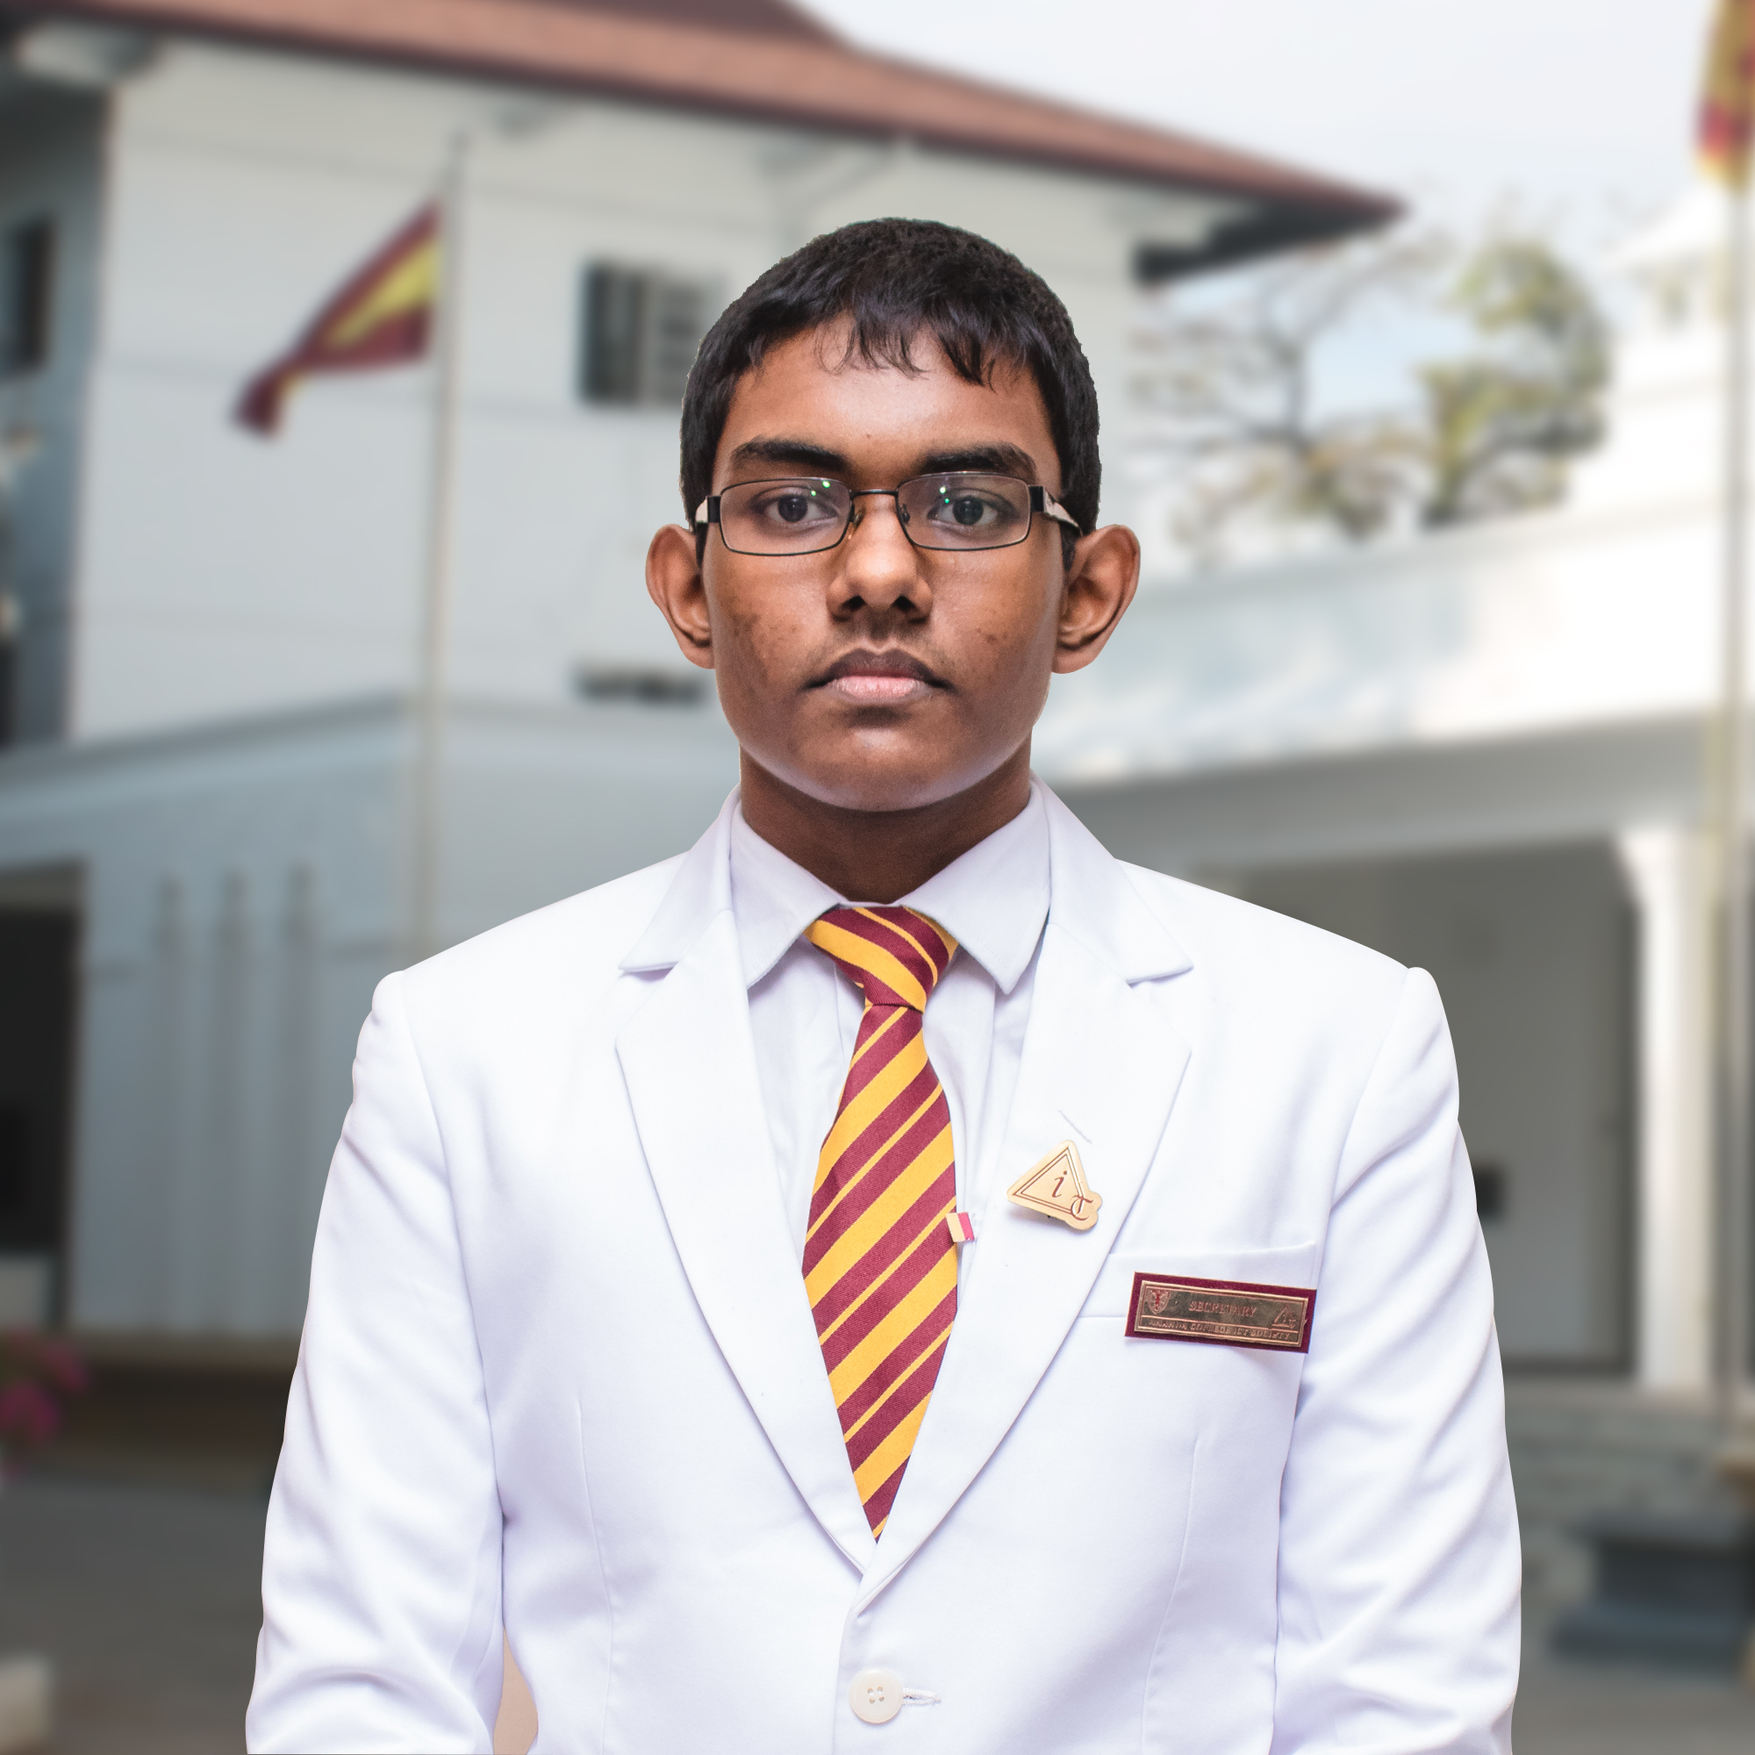
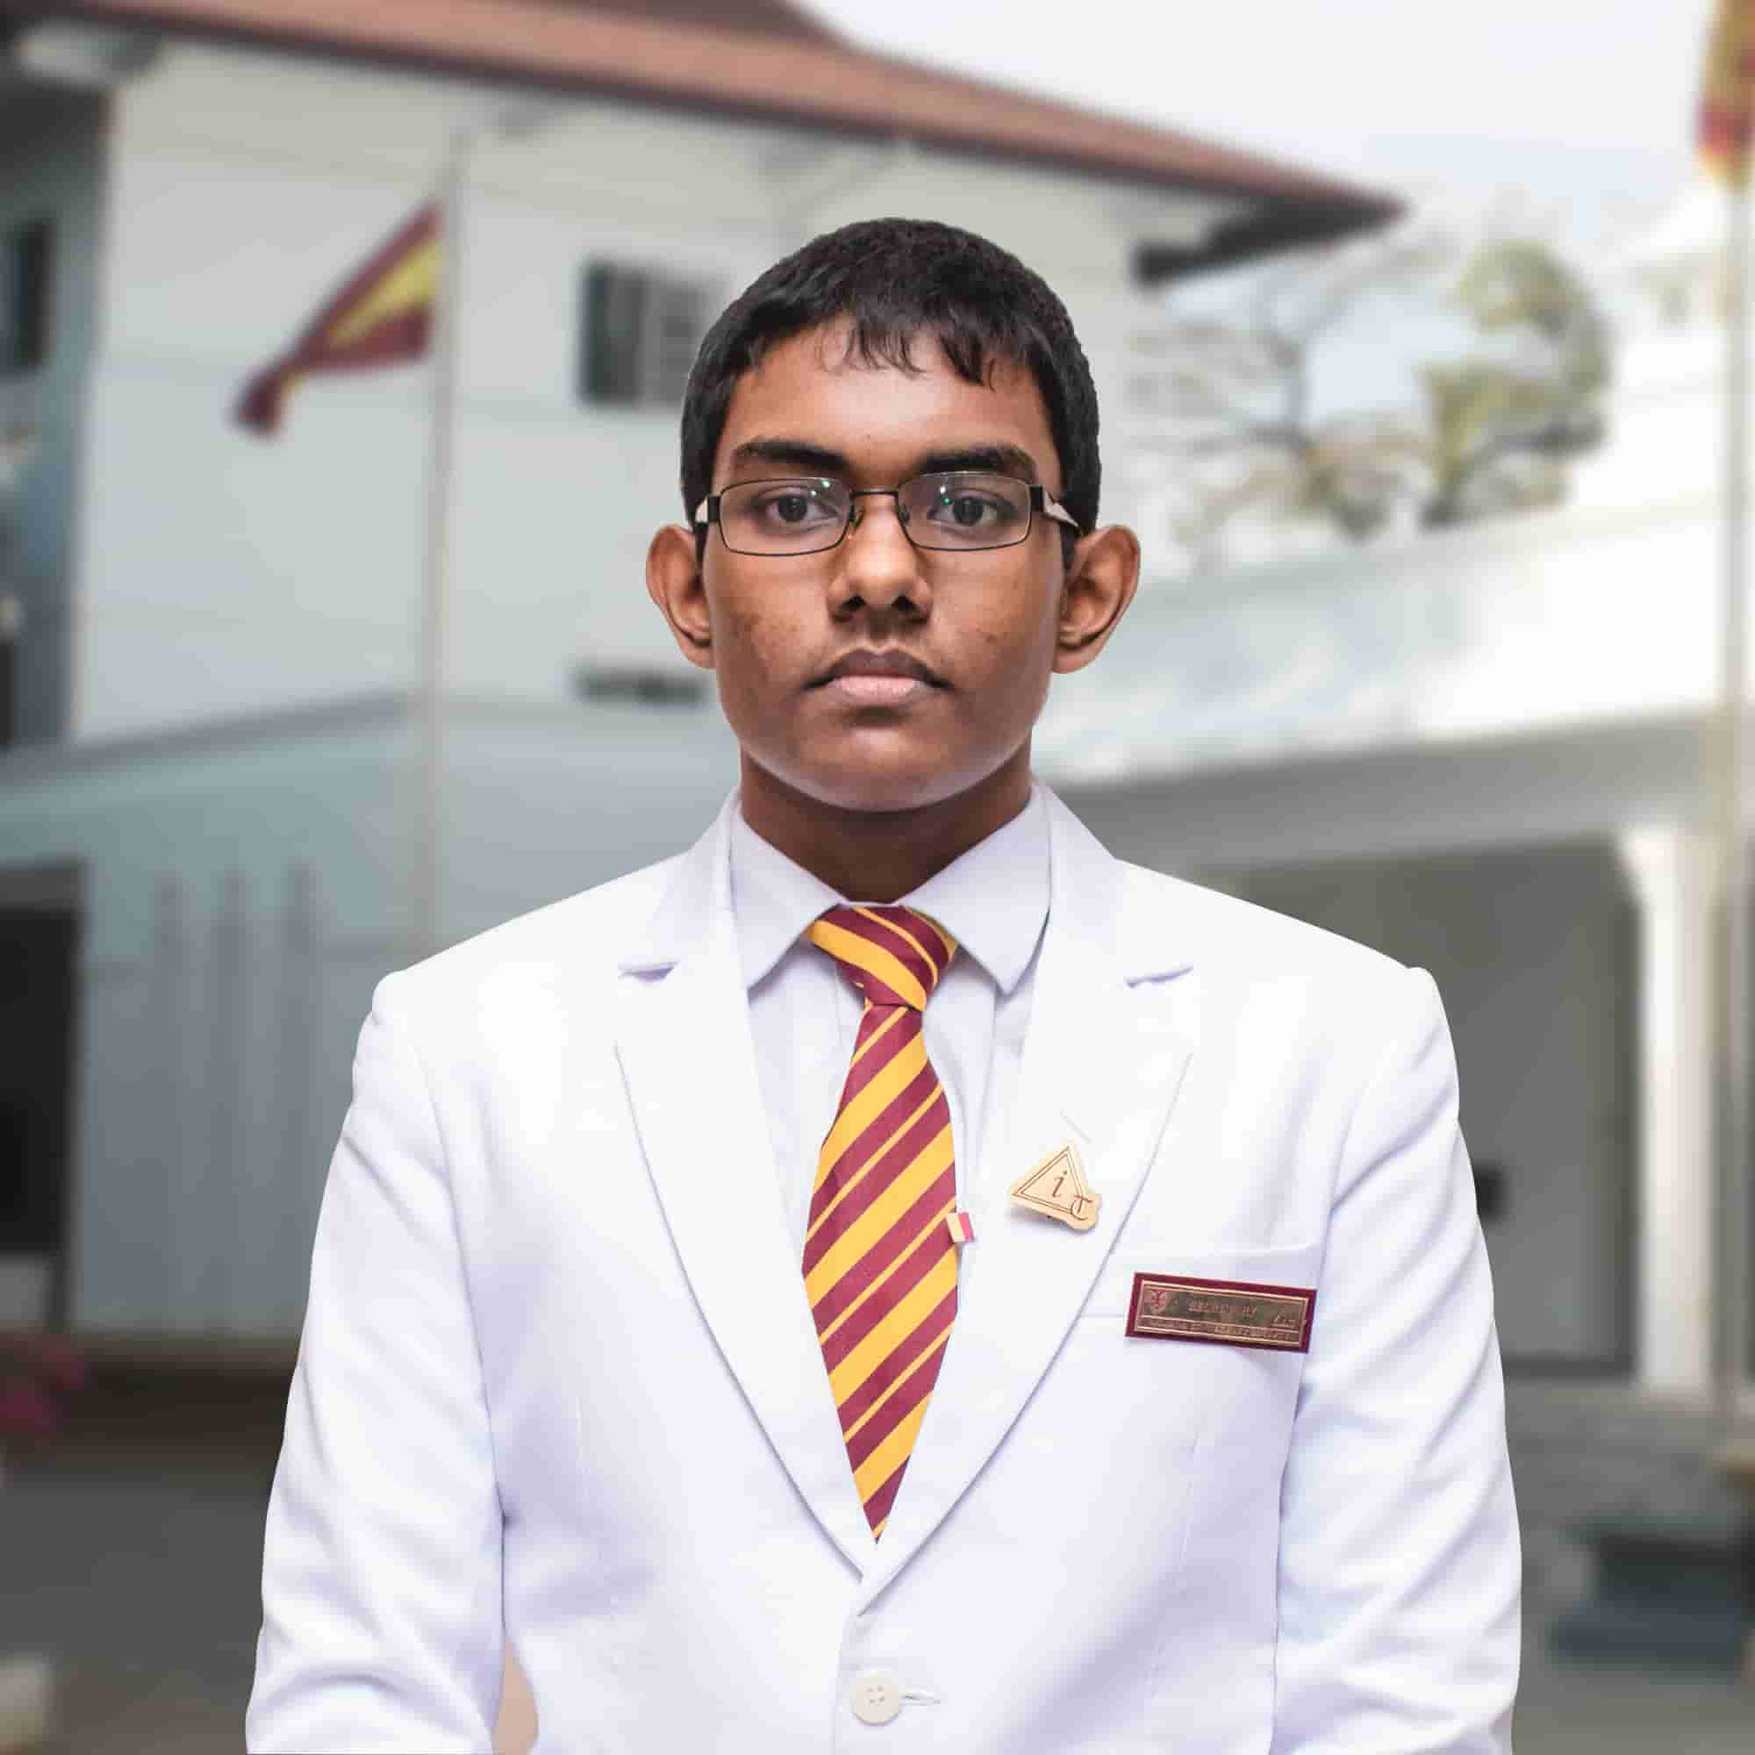
decreased image quality, few errors fixed

diff --git a/index.html b/index.html
@@ -66,7 +66,7 @@
     </div>
 
     <div class="container">
-        <nav class="navbar wow fadeInUp sticky-top navbar-expand-lg navbar-dark bg-dark-ash" data-wow-duration="1s" data-wow-delay="0.5s">
+        <nav class="navbar wow fadeInUp sticky-top navbar-expand-lg navbar-dark bg-dark-ash" data-wow-duration="1s" data-wow-delay="0.2s">
             <div class="container-fluid">
                 <a class="navbar-brand" href="#">
                     <img src="./images/bw-logo-small.png" class="logo-small" alt="">
@@ -81,19 +81,19 @@
                             <a class="nav-link active" aria-current="page" href="#">Home</a>
                         </li> -->
                         <li class="nav-item">
-                            <a class="nav-link" href="#">Projects</a>
+                            <a class="nav-link" href="#projects">Projects</a>
                         </li>
                         <li class="nav-item">
-                            <a class="nav-link" href="#">About</a>
+                            <a class="nav-link" href="#about">About</a>
                         </li>
                         <li class="nav-item">
-                            <a class="nav-link" href="#">Achievements</a>
+                            <a class="nav-link" href="#achievements">Achievements</a>
                         </li>
                         <li class="nav-item">
-                            <a class="nav-link" href="#">Board</a>
+                            <a class="nav-link" href="#board">Board</a>
                         </li>
                         <li class="nav-item">
-                            <a class="nav-link" href="#">Contact</a>
+                            <a class="nav-link" href="#contact">Contact</a>
                         </li>
                         <!-- <li class="nav-item dropdown">
                             <a class="nav-link dropdown-toggle" href="#" id="navbarDropdownMenuLink" role="button"
@@ -113,16 +113,16 @@
 
         <div class="parallax-img"></div>
 
-        <div class="section section-a">
-            <h2 class="section-title wow fadeInUp" data-wow-duration="1s" data-wow-delay="0.5s">Projects</h2>
+        <div class="section section-a" id="projects">
+            <h2 class="section-title wow fadeInUp" data-wow-duration="1s" data-wow-delay="0.4s">Projects</h2>
             <div class="row row-cols-1 row-cols-lg-4 g-4">
-                <div class="col wow fadeInUp" data-wow-duration="1s" data-wow-delay="1s">
+                <div class="col wow fadeInUp" data-wow-duration="1s" data-wow-delay="0.2s">
 
                     <div class="card-flip d-none d-lg-block">
                         <div class="flip">
                             <div class="front">
                                 <div class="card bg-dark-ash text-white h-100">
-                                    <img src="./images/projects/pulz.jpg" class="card-img-top" alt="...">
+                                    <img src="./images/projects/pulz.png" class="card-img-top" alt="...">
                                     <h5 class="card-main-topic">PULZ</h5>
                                     <!-- <div class="card-body">
                             <h5 class="card-title">PULZ</h5>
@@ -152,7 +152,7 @@
                     </div>
 
                     <div class="card bg-dark-ash text-white h-100 d-lg-none d-xl-none">
-                        <img src="./images/projects/pulz.jpg" class="card-img-top" alt="...">
+                        <img src="./images/projects/pulz.png" class="card-img-top" alt="...">
                         <div class="card-body">
                             <h5 class="card-title">PULZ</h5>
                             <p class="card-text">This is a wider card with supporting text below as a natural
@@ -164,7 +164,7 @@
                     </div>
 
                 </div>
-                <div class="col wow fadeInUp" data-wow-duration="1s" data-wow-delay="1.2s">
+                <div class="col wow fadeInUp" data-wow-duration="1s" data-wow-delay="0.4s">
 
                     <div class="card-flip d-none d-lg-block">
                         <div class="flip">
@@ -212,7 +212,7 @@
                     </div>
 
                 </div>
-                <div class="col wow fadeInUp" data-wow-duration="1s" data-wow-delay="1.4s">
+                <div class="col wow fadeInUp" data-wow-duration="1s" data-wow-delay="0.6s">
 
                     <div class="card-flip d-none d-lg-block">
                         <div class="flip">
@@ -260,13 +260,13 @@
                     </div>
 
                 </div>
-                <div class="col wow fadeInUp" data-wow-duration="1s" data-wow-delay="1.6s">
+                <div class="col wow fadeInUp" data-wow-duration="1s" data-wow-delay="0.8s">
 
                     <div class="card-flip d-none d-lg-block">
                         <div class="flip">
                             <div class="front">
                                 <div class="card bg-dark-ash text-white h-100">
-                                    <img src="./images/projects/live stream.jpg" class="card-img-top" alt="...">
+                                    <img src="./images/projects/live stream.png" class="card-img-top" alt="...">
                                     <h5 class="card-main-topic">Live Streaming</h5>
 
                                     <!-- <div class="card-body">
@@ -297,7 +297,7 @@
                     </div>
 
                     <div class="card bg-dark-ash text-white h-100 d-lg-none d-xl-none">
-                        <img src="./images/projects/live stream.jpg" class="card-img-top" alt="...">
+                        <img src="./images/projects/live stream.png" class="card-img-top" alt="...">
                         <div class="card-body">
                             <h5 class="card-title">Live Streaming</h5>
                             <p class="card-text">This is a wider card with supporting text below as a natural
@@ -312,7 +312,7 @@
             </div>
         </div>
 
-        <div class="parallax-img2">
+        <div class="parallax-img2" id="about">
             <div class="section section-b wow fadeInUp" data-wow-duration="1s" data-wow-delay="0.5s">
                 <h2 class="section-title">About</h2>
                 <blockquote class="blockquote">
@@ -327,10 +327,10 @@
             </div>
         </div>
 
-        <div class="section section-c">
+        <div class="section section-c" id="achievements">
             <h2 class="section-title wow fadeInUp" data-wow-duration="1s" data-wow-delay="0.5s">Achievements</h2>
             <div class="row row-cols-1 row-cols-md-3 row-cols-lg-4 g-4">
-                <div class="col wow fadeInUp" data-wow-duration="1s" data-wow-delay="1s">
+                <div class="col wow fadeInUp" data-wow-duration="1s" data-wow-delay="0.3s">
                     <div class="card bg-transparent text-white h-100">
                         <img src="./images/achievements/a1.jpg" class="card-img-top2" alt="...">
                         <div class="card-body">
@@ -343,7 +343,7 @@
                         </div>
                     </div>
                 </div>
-                <div class="col wow fadeInUp" data-wow-duration="1s" data-wow-delay="1s">
+                <div class="col wow fadeInUp" data-wow-duration="1s" data-wow-delay="0.3s">
                     <div class="card bg-transparent text-white h-100">
                         <img src="./images/achievements/a2.jpg" class="card-img-top2" alt="...">
                         <div class="card-body">
@@ -356,7 +356,7 @@
                         </div>
                     </div>
                 </div>
-                <div class="col wow fadeInUp" data-wow-duration="1s" data-wow-delay="1s">
+                <div class="col wow fadeInUp" data-wow-duration="1s" data-wow-delay="0.3s">
                     <div class="card bg-transparent text-white h-100">
                         <img src="./images/achievements/a3.jpeg" class="card-img-top2" alt="...">
                         <div class="card-body">
@@ -369,7 +369,7 @@
                         </div>
                     </div>
                 </div>
-                <div class="col wow fadeInUp" data-wow-duration="1s" data-wow-delay="1s">
+                <div class="col wow fadeInUp" data-wow-duration="1s" data-wow-delay="0.3s">
                     <div class="card bg-transparent text-white h-100">
                         <img src="./images/achievements/a4.jpg" class="card-img-top2" alt="...">
                         <div class="card-body">
@@ -489,10 +489,10 @@
             </div>
         </div>
 
-        <div class="section section-c">
+        <div class="section section-c" id="board">
             <h2 class="section-title wow fadeInUp"  data-wow-duration="1s" data-wow-delay="0.5s">Board of Officials</h2>
             <div class="row row-cols-1 row-cols-md-3 g-4 mb-3">
-                <div class="col wow fadeInUp" data-wow-duration="2s" data-wow-delay="1s">
+                <div class="col wow fadeInUp" data-wow-duration="2s" data-wow-delay="0.3s">
                     <div class="card bg-transparent text-white h-100">
                         <img src="./images/board/1.jpg" class="card-img-top3" alt="...">
                         <div class="card-body">
@@ -501,7 +501,7 @@
                         </div>
                     </div>
                 </div>
-                <div class="col wow fadeInUp"  data-wow-duration="2s" data-wow-delay="1.2s">
+                <div class="col wow fadeInUp"  data-wow-duration="2s" data-wow-delay="0.6s">
                     <div class="card bg-transparent text-white h-100">
                         <img src="./images/board/2.jpg" class="card-img-top3" alt="...">
                         <div class="card-body">
@@ -510,7 +510,7 @@
                         </div>
                     </div>
                 </div>
-                <div class="col wow fadeInUp" data-wow-duration="2s" data-wow-delay="1.4s">
+                <div class="col wow fadeInUp" data-wow-duration="2s" data-wow-delay="0.9s">
                     <div class="card bg-transparent text-white h-100">
                         <img src="./images/board/3.jpg" class="card-img-top3" alt="...">
                         <div class="card-body">
@@ -521,55 +521,55 @@
                 </div>
             </div>
 
-            <div class="row row-cols-1 row-cols-md-2 other-members wow fadeInUp" data-wow-duration="1s" data-wow-delay="0.5s">
-                <div class="col wow fadeInUp" data-wow-duration="1s" data-wow-delay="1s">
+            <div class="row row-cols-1 row-cols-md-2 other-members wow fadeInUp">
+                <div class="col wow fadeInUp" data-wow-duration="1s" data-wow-delay="0.3s">
                     <h5 class="card-title">Savindu Kumarasekara</h5>
                     <p class="card-text">Treasurer</p>
                 </div>
-                <div class="col wow fadeInUp" data-wow-duration="1s" data-wow-delay="1s">
+                <div class="col wow fadeInUp" data-wow-duration="1s" data-wow-delay="0.3s">
                     <h5 class="card-title">Samiru De Silva</h5>
                     <p class="card-text">Assistant Secretary</p>
                 </div>
-                <div class="col wow fadeInUp" data-wow-duration="1s" data-wow-delay="1s">
+                <div class="col wow fadeInUp" data-wow-duration="1s" data-wow-delay="0.3s">
                     <h5 class="card-title">Chethaka Samaraweera</h5>
                     <p class="card-text">Assistant Treasurer</p>
                 </div>
-                <div class="col wow fadeInUp" data-wow-duration="1s" data-wow-delay="1s">
+                <div class="col wow fadeInUp" data-wow-duration="1s" data-wow-delay="0.3s">
                     <h5 class="card-title">Yasith Gamage</h5>
                     <p class="card-text">Chief Organizer</p>
                 </div>
-                <div class="col wow fadeInUp" data-wow-duration="1s" data-wow-delay="1s">
+                <div class="col wow fadeInUp" data-wow-duration="1s" data-wow-delay="0.3s">
                     <h5 class="card-title">Pahan Abhayawardhane</h5>
                     <p class="card-text">Chief Coordinator</p>
                 </div>
-                <div class="col wow fadeInUp" data-wow-duration="1s" data-wow-delay="1s">
+                <div class="col wow fadeInUp" data-wow-duration="1s" data-wow-delay="0.3s">
                     <h5 class="card-title">Adheesh Perera | Deepaja Premathilake</h5>
                     <p class="card-text">External Affairs Coordinator</p>
                 </div>
-                <div class="col wow fadeInUp" data-wow-duration="1s" data-wow-delay="1s">
+                <div class="col wow fadeInUp" data-wow-duration="1s" data-wow-delay="0.3s">
                     <h5 class="card-title">Sanjaya Weerakoon</h5>
                     <p class="card-text">Media Coordinator</p>
                 </div>
-                <div class="col wow fadeInUp" data-wow-duration="1s" data-wow-delay="1s">
+                <div class="col wow fadeInUp" data-wow-duration="1s" data-wow-delay="0.3s">
                     <h5 class="card-title">Pulasthi Udugamasooriya</h5>
                     <p class="card-text">Project Coordinator</p>
                 </div>
-                <div class="col wow fadeInUp" data-wow-duration="1s" data-wow-delay="1s">
+                <div class="col wow fadeInUp" data-wow-duration="1s" data-wow-delay="0.3s">
                     <h5 class="card-title">Chamod Perera | Randev Senevirathne | Duvindu Embuldeniya | Isuka Pussewella
                         | Vinulaka Jayasekara</h5>
                     <p class="card-text">Coordinators</p>
                 </div>
-                <div class="col wow fadeInUp" data-wow-duration="1s" data-wow-delay="1s">
+                <div class="col wow fadeInUp" data-wow-duration="1s" data-wow-delay="0.3s">
                     <h5 class="card-title">Induwara Ranathunga | Chaheth Janidu | Dinujaya Weerasinghe</h5>
                     <p class="card-text">Senior Members</p>
                 </div>
             </div>
         </div>
 
-        <div class="section section-d">
+        <div class="section section-d" id="contact">
             <h2 class="section-title wow fadeInUp" data-wow-duration="1s" data-wow-delay="0.5s">Contact</h2>
             <div class="row">
-                <div class="col-sm wow fadeInUp" data-wow-duration="1s" data-wow-delay="1s">
+                <div class="col-sm wow fadeInUp" data-wow-duration="1s" data-wow-delay="0.8s">
                     <form>
                         <div class="row">
                             <div class="col-sm-6">
@@ -594,7 +594,7 @@
                         <button type="submit" class="btn btn-dark rounded-0">Submit</button>
                     </form>
                 </div>
-                <div class="col-sm mt-3 mt-sm-0 wow fadeInUp" data-wow-duration="1s" data-wow-delay="1.5s">
+                <div class="col-sm mt-3 mt-sm-0 wow fadeInUp" data-wow-duration="1s" data-wow-delay="0.8s">
                     <div class="card bg-dark-ash">
                         <table class="table table-borderless">
                             <tbody class="bg-dark-ash">

diff --git a/css/main.css b/css/main.css
@@ -3,7 +3,7 @@
 body,
 html {
     height: 100% !important;
-
+    scroll-behavior: smooth;
 }
 
 body {
@@ -120,7 +120,7 @@ div#navbarNavDropdown {
     border-color: #a20909;
     border-style: solid none; */
     background-color: black;
-    padding: 60px 0;
+    padding: 80px 0 30px;
 }
 
 h2.section-title {
@@ -221,14 +221,14 @@ small.text-muted {
 }
 
 .section-b{
-    padding: 15px 20px !important;
+    padding: 35px 20px 15px !important;
     background-color: #000000ed;
 }
 
 .blockquote>p {
     font-size: .95rem !important;
     text-align: justify;
-    color: #ffffff3b !important;
+    color: #ffffff8c !important;
     padding: 0 20%;
 }
 
@@ -261,6 +261,7 @@ img.card-img-top3 {
 
 .other-members h5{
     margin-bottom: 0;
+    color: #7575758c;
 }
 
 @media only screen and (max-width: 576px) {
